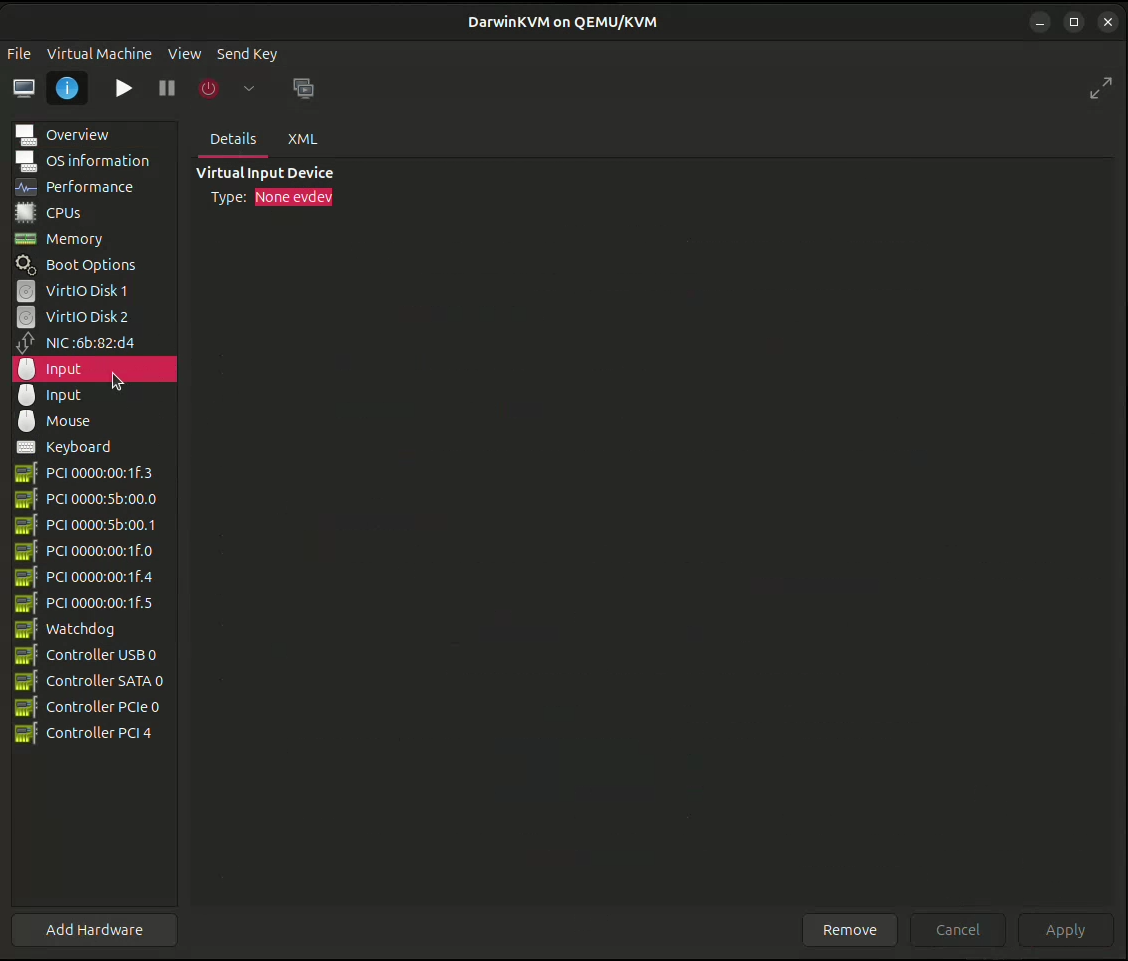
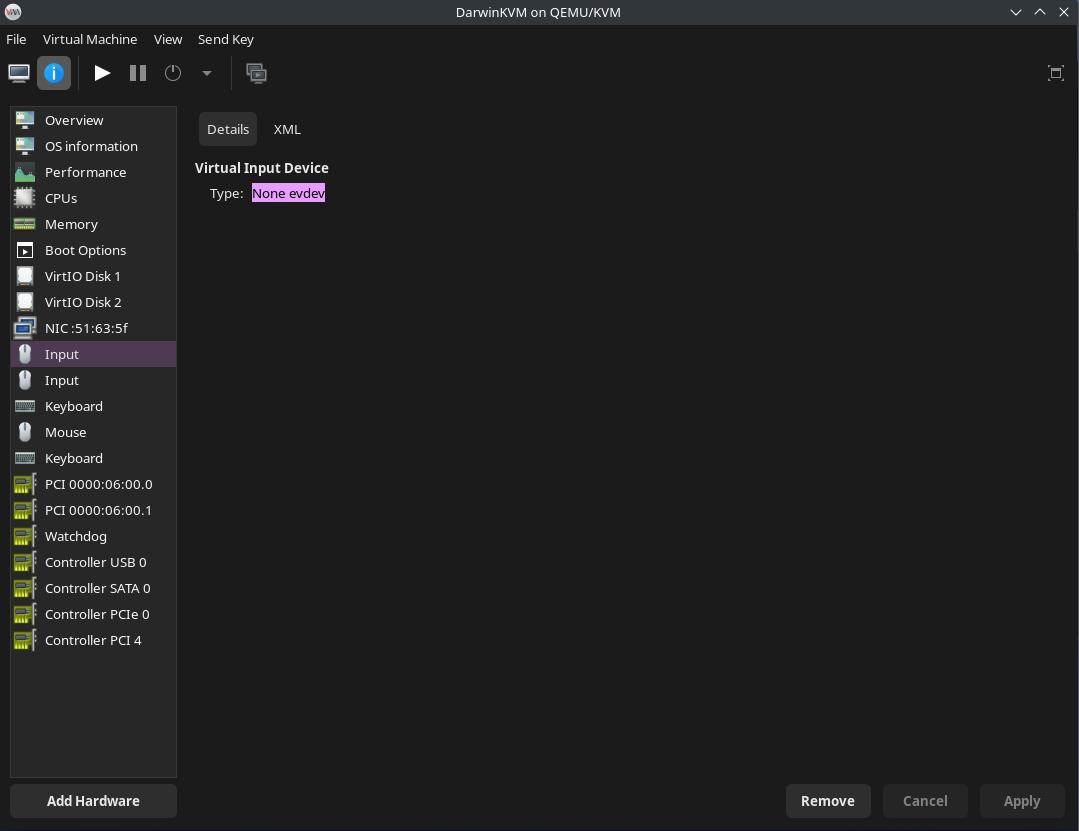
Fix Evdev KBM sharing (#21)
* Fix KB/M sharing with Evdev

diff --git a/docs/_writeups/07-EvdevKBM/03-XML.md b/docs/_writeups/07-EvdevKBM/03-XML.md
@@ -29,10 +29,13 @@ Now, **before** the mouse and keyboard XML, copy and paste the following XML to 
 
 ```xml
 <input type="evdev">
-  <source dev="/dev/input/by-id/(mouse-path)">
+  <source dev="/dev/input/by-id/(keyboard-path)" grab="all" grabToggle="ctrl-ctrl" repeat="on"/>
 </input>
 <input type="evdev">
-  <source dev="/dev/input/by-id/(keyboard-path)" grab="all" grabToggle="ctrl-ctrl" repeat="on">
+  <source dev="/dev/input/by-id/(mouse-path)"/>
+</input>
+<input type="keyboard" bus="virtio">
+  <address type="pci" domain="0x0000" bus="0x0a" slot="0x00" function="0x7"/>
 </input>
 ```
 
@@ -52,9 +55,9 @@ Now, **before** the mouse and keyboard XML, copy and paste the following XML to 
 {: .note }
 > Remember to **'Apply'** when you finish!
 
-You should then see two 'Input' devices in the sidebar!
+You should then see two 'Input' devices and one extra 'Keyboard' device in the sidebar!
 
-Sample configuration for the mouse (should be similar for keyboard as well):
+Sample configuration for the keyboard (should be similar for mouse as well):
 
 <p align="center">
     <img src="../../../assets/VManEvdevInputDetails.png"/>
@@ -64,6 +67,9 @@ Sample configuration for the mouse (should be similar for keyboard as well):
     <img src="../../../assets/VManEvdevInputXML.png"/>
 </p>
 
-**Do not boot into DarwinKVM yet! We still need to configure the driver/kext for KB/M!**
+Now we need to add a mouse. To do this go to 'Add Hardware' then 'Input' then select 'USB Mouse'.
+
+If you are having issues once in MacOS with the cursor snapping back to the top left corner, remove and add the USB mouse while the virtual machine is running.
 
 ## You can now continue to the next <a href="../04-VoodooPS2">page</a>.
+

diff --git a/docs/_writeups/07-EvdevKBM/04-VoodooPS2.md b/docs/_writeups/07-EvdevKBM/04-VoodooPS2.md
@@ -6,9 +6,8 @@ nav_order: 4
 ---
 ## Adding VoodooPS2
 
+> This is only for MacOS 10.14 (Mojave) And Older! For **OS X 10.11** (El Capitan) and lower, you will instead need to download the original PS2 driver by **RehabMan** <a href="https://bitbucket.org/RehabMan/os-x-voodoo-ps2-controller/downloads/">here</a>. Note that these older drivers are built for x64 systems, but you can manually build the x32 versions in Xcode with the source code <a href="https://github.com/RehabMan/OS-X-Voodoo-PS2-Controller/">here</a>.
 {: .headsup }
-> For **OS X 10.11** (El Capitan) and lower, you will instead need to download the original PS2 driver by **RehabMan** <a href="https://bitbucket.org/RehabMan/os-x-voodoo-ps2-controller/downloads/">here</a>. Note that these older drivers are built for x64 systems, but you can manually build the x32 versions in Xcode with the source code <a href="https://github.com/RehabMan/OS-X-Voodoo-PS2-Controller/">here</a>.
-
 Start by downloading the latest release version of ``VoodooPS2`` from <a href="https://github.com/acidanthera/VoodooPS2/releases/">here</a> (for macOS 10.12 Sierra and higher).
 
 Add the kext to the Kexts folder in your OpenCore disk image, and remember to ``OC Snapshot`` the ``config.plist`` when finished. The necessary kexts (``VoodooPS2Keyboard, VoodooPS2Mouse``) will be added automatically for you by ProperTree.
